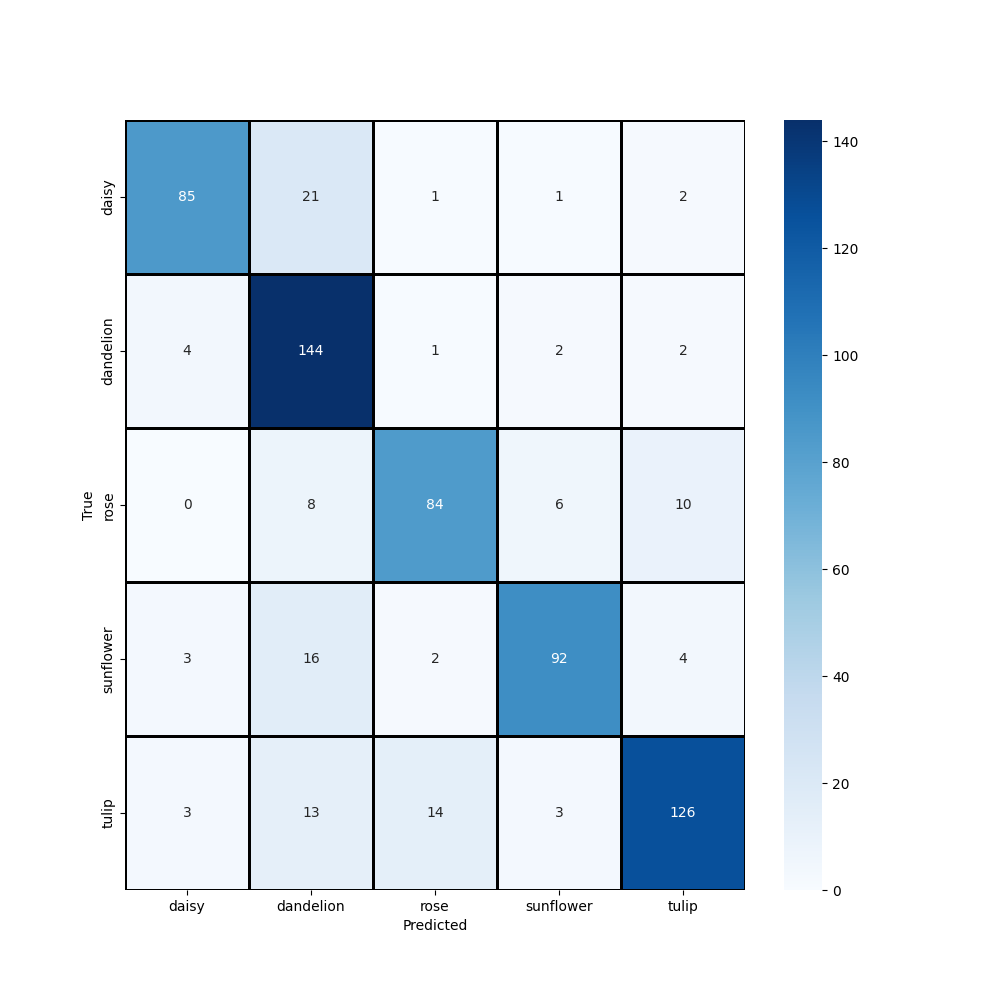
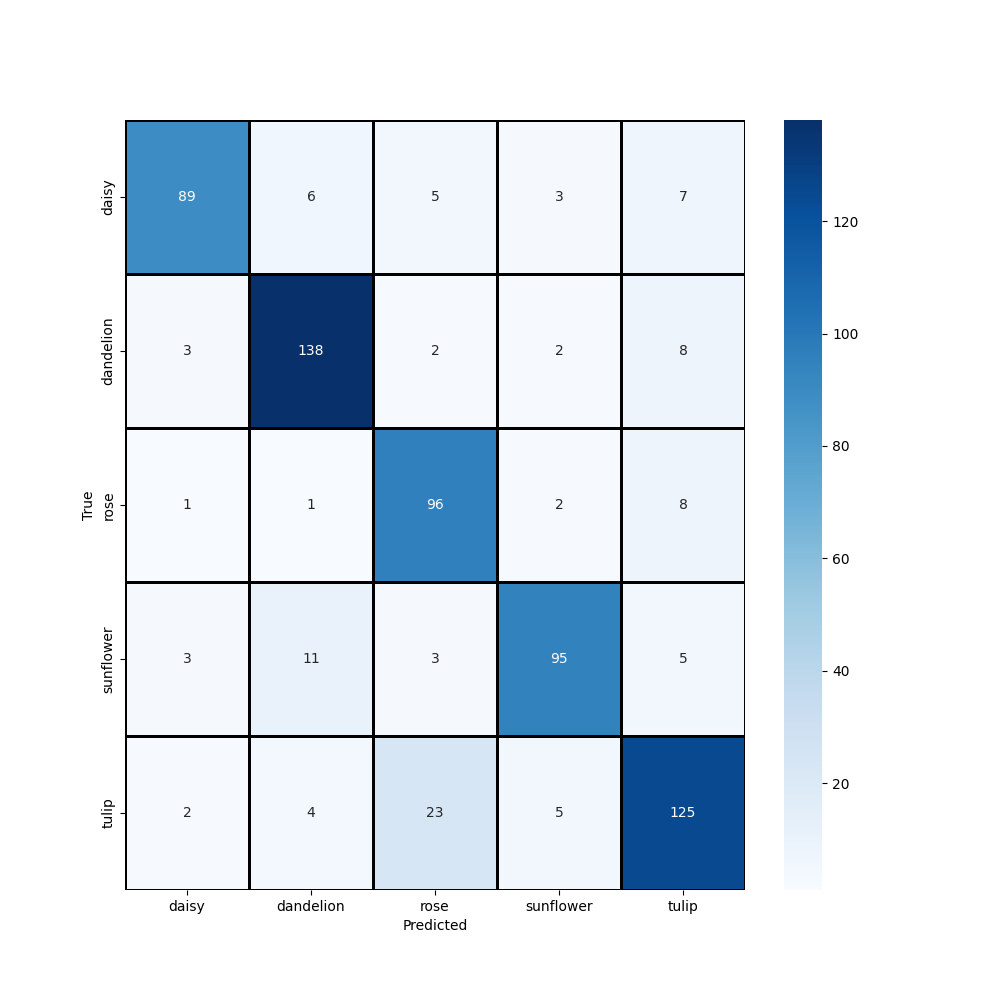
Updated Model

diff --git a/falafel/dl_model/trainModel.py b/falafel/dl_model/trainModel.py
@@ -111,7 +111,24 @@ def main():
 
 #### Loading the Model
 
-	model = tf.keras.models.load_model(constants.MODEL_PATH)
+	## This code allows to retre loading the model if error pops ip (`Permission denied: 'falafel/dl_model/models/model.weights.h5'`)
+	max_retries = 5
+	retry_delay = 2
+
+	for attempt in range(max_retries):
+		try:
+			model = tf.keras.models.load_model(constants.MODEL_PATH)
+			break
+		except PermissionError:
+			if attempt < max_retries - 1:
+				print(f"Permission error, retrying in {retry_delay} seconds...")
+				time.sleep(retry_delay)
+			else:
+				print("Max retries reached. Unable to load the model.")
+				raise
+
+
+	# model = tf.keras.models.load_model(constants.MODEL_PATH)
 
 	print("\nModel Summary:\n")
 	model.summary()
@@ -121,7 +138,9 @@ def main():
 
 	start_time = time.time()
 	
+
 	history = model.fit(train_dataset, validation_data = val_dataset, epochs = EPOCHS)
+
 
 	# history = model.fit(train_generator, validation_data = validation_generator, epochs = EPOCHS) # method that works best
 	# history = model.fit(train_generator, validation_data = validation_generator, steps_per_epoch = (n_steps_epoch-1), epochs = EPOCHS)

diff --git a/falafel/dl_model/main.py b/falafel/dl_model/main.py
@@ -26,6 +26,7 @@ def main():
     GET_DATABASE = constants.GET_DATABASE
     TRAIN_BOOL = constants.TRAIN_BOOL
     PREDICT_BOOL = 0
+    TRAINING_RUNS = 5
 
     # GET_DATABASE = 0
     # TRAIN_BOOL = 0
@@ -54,7 +55,8 @@ def main():
         print("\n\t[3/5] - Skipping Training Model.Model already trained\n")
     else:
         print("\n\t[3/5] - Training Model\n")
-        trainModel.main()
+        for _ in range(TRAINING_RUNS): 
+            trainModel.main()
 
 
     if (PREDICT_BOOL == 0):

diff --git a/falafel/dl_model/createModel.py b/falafel/dl_model/createModel.py
@@ -44,7 +44,7 @@ def main():
 
     model = tf.keras.models.Model(base_model.input, x)
 
-    model.compile(optimizer = tf.keras.optimizers.RMSprop(learning_rate=0.0001), loss = 'binary_crossentropy',metrics = ['acc'])
+    model.compile(optimizer = tf.keras.optimizers.Adam(learning_rate=1e-3), loss = 'binary_crossentropy',metrics = ['acc'])
 
 
 

diff --git a/README.md b/README.md
@@ -9,10 +9,15 @@
 
 ### Testing Server (Client-Side)
 
+
 Website :   `localhost:5000`
 
 CLI :       `curl -X POST -F "image=@XXX.jpg" http://localhost:5000/predict`
             `curl -X POST -F "file=@XXX.jpg" http://localhost:5000/predict`
+
+
+NGINX listens on port 5000
+WSGI  listens on port 8000
 
 
 
